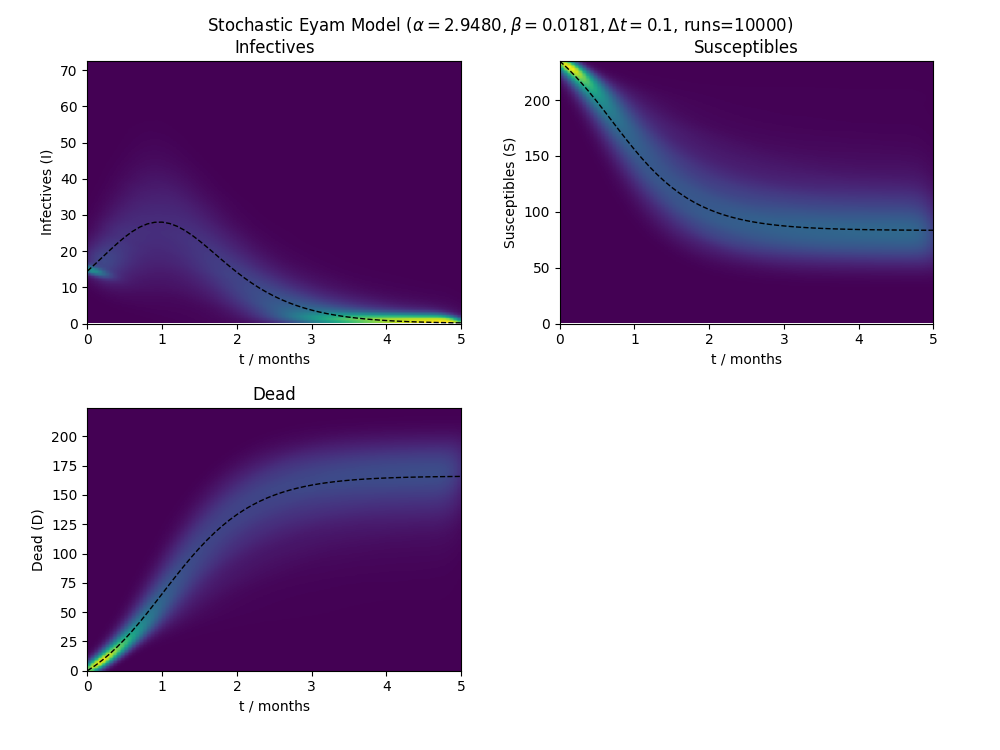
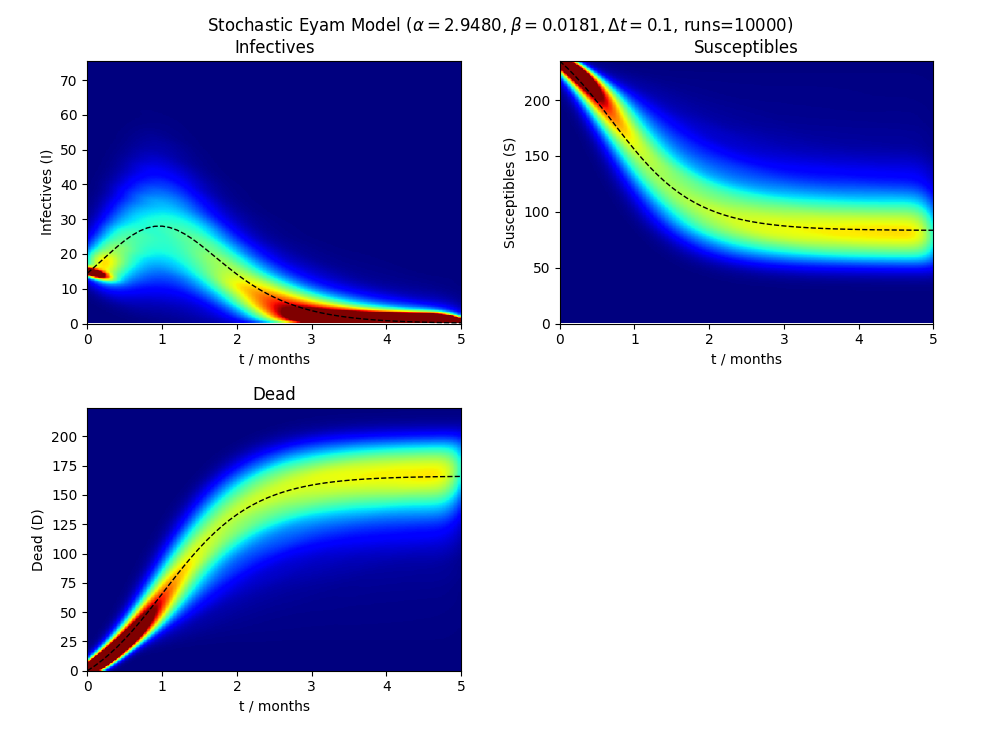
seminar 1 readme

diff --git a/seminar_1/main.py b/seminar_1/main.py
@@ -138,7 +138,7 @@ def draw_rho_regression(X:np.ndarray, y:np.ndarray, m:float):
 	plt.plot(np.linspace(0, max_x, 2), np.linspace(0, max_x, 2)*m, linewidth=1, color="k", linestyle="--")
 
 
-def draw_stochastic_kde(ax, model_X:np.ndarray, model_y:np.ndarray, line_X:pd.Series, line_y:pd.Series, title:str, y_label:str):
+def draw_stochastic_kde(ax, model_X:np.ndarray, model_y:np.ndarray, line_X:pd.Series, line_y:pd.Series, title:str, y_label:str, vmin:float, vmax:float):
 	ax.set_title(title)
 	ax.set_xlabel("t / months")
 	ax.set_ylabel(y_label)
@@ -152,8 +152,22 @@ def draw_stochastic_kde(ax, model_X:np.ndarray, model_y:np.ndarray, line_X:pd.Se
 	kernel = scipy.stats.gaussian_kde(values)
 	f = np.reshape(kernel(positions).T, xx.shape)
 
-	ax.imshow(np.rot90(f), cmap=plt.cm.viridis, extent=[xmin, xmax, ymin, ymax], aspect="auto")
+	im = ax.imshow(np.rot90(f), cmap=plt.cm.jet, extent=[xmin, xmax, ymin, ymax], aspect="auto")
+	im.set_clim(vmin=vmin, vmax=vmax)
 	ax.plot(line_X, line_y, color="k", linestyle="--", linewidth=1)
+
+
+def draw_historical(historical:pd.DataFrame):
+	plt.figure("Historical data")
+	plt.title("Historical data")
+	plt.xlabel("t / months")
+	plt.ylabel("Eyam population")
+
+	plt.plot(historical.t, historical.I, color="r")
+	plt.plot(historical.t, historical.S, color="g")
+	plt.plot(historical.t, historical.D, color="b")
+
+	plt.legend(["Infected (I)", "Surviving (S)", "Dead (D)"])
 
 	
 def main():
@@ -165,6 +179,9 @@ def main():
 	# read in historical data points of S, I & D
 	with open("./data.csv") as fo:
 		historical = pd.read_csv(fo)
+
+	# draw historical data
+	draw_historical(historical)
 
 	# define eyam model constants
 	I_0, S_0 = historical.iloc[0].I, historical.iloc[0].S
@@ -206,21 +223,24 @@ def main():
 		model_X=I_x, model_y=I_y,
 		line_X=model.t, line_y=model.I,
 		title="Infectives",
-		y_label="Infectives (I)"
+		y_label="Infectives (I)",
+		vmin=0, vmax=0.0175
 	)
 	draw_stochastic_kde(
 		ax=axs[0][1],
 		model_X=S_x, model_y=S_y,
 		line_X=model.t, line_y=model.S,
 		title="Susceptibles",
-		y_label="Susceptibles (S)"
+		y_label="Susceptibles (S)",
+		vmin=0, vmax=0.005
 	)
 	draw_stochastic_kde(
 		ax=axs[1][0],
 		model_X=D_x, model_y=D_y,
 		line_X=model.t, line_y=model.D,
 		title="Dead",
-		y_label="Dead (D)"
+		y_label="Dead (D)",
+		vmin=0, vmax=0.005
 	)
 	axs[1][1].axis("off")
 

diff --git a/seminar_1/README.md b/seminar_1/README.md
@@ -1,10 +1,106 @@
-# README: TODO
+# The Epidemiology of Eyam
 
-## Alpha/beta regression line
+All credits for calculations go to Dr Andrew French, Winchester College.
+http://www.eclecticon.info/index_htm_files/BPhO%20CompPhys%2011%20Epidemiology.pdf
+
+---
+## 0. Context
+The [Plague of Eyam](https://en.wikipedia.org/wiki/Eyam#1665_plague_outbreak) in 1665, caused by the bacterium [Yersinia pestis](https://en.wikipedia.org/wiki/Yersinia_pestis), had 800 inhabitants of the Eyam village quarantined. 260 villagers died over a 14-month period. Rector [William Mompesson](https://en.wikipedia.org/wiki/William_Mompesson) recorded Infected ($I$), Susceptible ($S$) and Dead ($D$) populations. The data is as follows:
+| Date | $t$ / months | $S$ | $I$ | $D$ |
+| --- | --- | --- | --- | --- |
+| July 3-4 1666 | 0.00 | 235 | 14.5 | 0 |
+| July 19 1666 | 0.51 | 201 | 22 | 26.5 |
+| Aug 3-4 1666 | 1.02 | 153.5 | 29 | 67 |
+| Aug 19 1666 | 1.53 | 121 | 21 | 107.5 |
+| Sept 3-4 1666 | 2.04 | 108 | 8 |  133.5 |
+| Sept 19 1666 | 2.55 | 97 | 8 | 144.5 |
+| Oct 20 1666 | 3.57 | 83 | 0 | 166.5 |
+![Historical data](./images/historical.png "Historical data")
+
+---
+## 1. The Eyam Equations
+The total population ($I + S + D$) should remain constant.
+$$
+\newcommand\d{\textrm{d}}
+\begin{gather*}
+I + S + D = I_0 + S_0 + \cancel{D_0} \\[5pt]
+\frac{\d I}{\d t} + \frac{\d S}{\d t} + \frac{\d D}{\d t} = 0 \\[5pt]
+\end{gather*}
+$$
+
+The Eyam Equations state that
+$$
+\newcommand{\d}[2]{\frac{\textrm{d} #1}{\textrm{d} #2}}
+\begin{cases}
+\d{D}{t} = \alpha I \\[5pt]
+\d{S}{t} = -\beta S I \\[5pt]
+\d{I}{t} = -\d{D}{t} - \d{S}{t} = \beta S I - \alpha I
+\end{cases}
+$$
+where $\alpha > 0$ and $\beta > 0$.
+
+It is apparent that $\frac{\textrm{d} I}{\textrm{d} t} = 0$ when $I = 0$ or $I = \frac{\alpha}{\beta}$. By taking $I$ to the 2^nd^ derivative, we find that $I$ is maximized when $ S = \frac{\alpha}{\beta} $. We define this to be $ \rho $, the susceptible threshold. When $ S > \rho$, the epidemic grows; when $ S < \rho $, the epidemic shrinks.
+$$
+\newcommand{\d}[2]{\frac{\textrm{d} #1}{\textrm{d} #2}}
+\newcommand{\dtwo}[2]{\frac{\textrm{d}^2 #1}{\textrm{d} #2^2}}
+\newcommand{\at}[2]{#1|_{#2}}
+\begin{align*}
+	\d{I}{t} & = (\beta S - \alpha)I \\[5pt]
+	\dtwo{I}{t} & = (\beta S - \alpha)\d{I}{t} + (\beta \d{S}{t})I \\[5pt]
+		& = (\beta S - \alpha)^2 I - I^2 \beta^2 S \\[5pt]
+	\dtwo{I}{t}\bigg|_{S=\frac{\alpha}{\beta}} & = (\frac{\alpha}{\beta}\beta - \alpha)^2 - I^2 \beta^2 \frac{\alpha}{\beta} \\[5pt]
+		& = -I^2\alpha\beta < 0
+\end{align*}
+$$
+
+---
+## 2. Finding $\alpha$, $\beta$
+We first find $\rho=\frac{\alpha}{\beta}$ by integrating $\frac{\textrm{d} I}{\textrm{d} S}$.
+$$
+\newcommand{\d}[2]{\frac{\textrm{d} #1}{\textrm{d} #2}}
+\newcommand{\dtwo}[2]{\frac{\textrm{d}^2 #1}{\textrm{d} #2^2}}
+\newcommand{\at}[2]{#1|_{#2}}
+\begin{align*}
+	\d{S}{t} & = -\beta S I \\[5pt]
+	\d{I}{t} & = \beta S I - \alpha I \\[5pt]
+	\therefore \d{I}{S} & = -\frac{\beta S I - \alpha I}{\beta S I} = \frac{\alpha}{\beta}\frac{1}{S}-1 = \rho \frac{1}{S} - 1 \\[5pt]
+	\therefore I - I_0 & = \int_{S_0}^{S}\bigg(\rho \frac{1}{S} - 1\bigg) \textrm{d}S = \bigg[\rho \ln S - S\bigg]^S_{S_0} \\[5pt]
+	\therefore I & = I_0 + \rho\ln\frac{S}{S_0} - S + S_0 \\[5pt]
+	\therefore \rho\ln\frac{S}{S_0} & = I_0 + S_0 - I - S \\[5pt]
+	y & = \rho x
+\end{align*}
+$$
+
 ![Alpha/beta regression line graph](./images/ab_regression_line.png "Alpha/beta regression line graph")
 
-## Eyam model
+With the given data, we calculate $\rho \approx 163.29$ using linear regression.
+
+We then choose $\alpha$ by minimizing squared error from the historical data.
+
+This can be implemented by e.g. [Ternary search](https://en.wikipedia.org/wiki/Ternary_search) or simply running the model for a range of $\alpha$ values and choosing the minimum.
+
+We find $\alpha \approx 2.9480$ and thus $\beta = \frac{\alpha}{\rho} \approx 0.0181$. Results are below:
+
 ![Eyam model graph](./images/simple_eyam.png "Eyam model graph")
 
-## Stochastic eyam model
+Simulation is performed with an iterative numerical method. \+ markers represent Mompesson's data.
+
+---
+## 3. Stochastic eyam model
+The changes to $S$, $I$ and $D$ are discrete & random. We can utilize this property & the Poisson distribution for our simulation.
+
+If $k$ is the mean rate of an event occuring independently in a time period, then $ \textrm{Po}(k) $ is a distribution that describes the probability of the number of events occuring within the same time period.
+
+We have the following set of modified equations:
+
+$$
+\begin{cases}
+\Delta D = \textrm{Po}(\alpha I \Delta t) \\[5pt]
+\Delta S = \textrm{Po}(-\beta S I \Delta t) \\[5pt]
+\Delta I = \textrm{Po}\big((\beta S I - \alpha I) \Delta t\big)
+\end{cases}
+$$
+
+By repeatedly running the model, we can generate a probability heatmap.
+
 ![Stochastic eyam model graph](./images/stochastic_eyam.png "Stochastic eyam model graph")

diff --git a/README.md b/README.md
@@ -1,2 +1,4 @@
-# bpho-computing-2022
-My code for physics model simulations in BPhO 2022.
+# bpho-computing-2023
+My code for physics model simulations in BPhO 2023.
+
+1. [The Epidemiology of Eyam](https://github.com/lucasma8795/bpho-computing-2023/tree/main/seminar_1)
